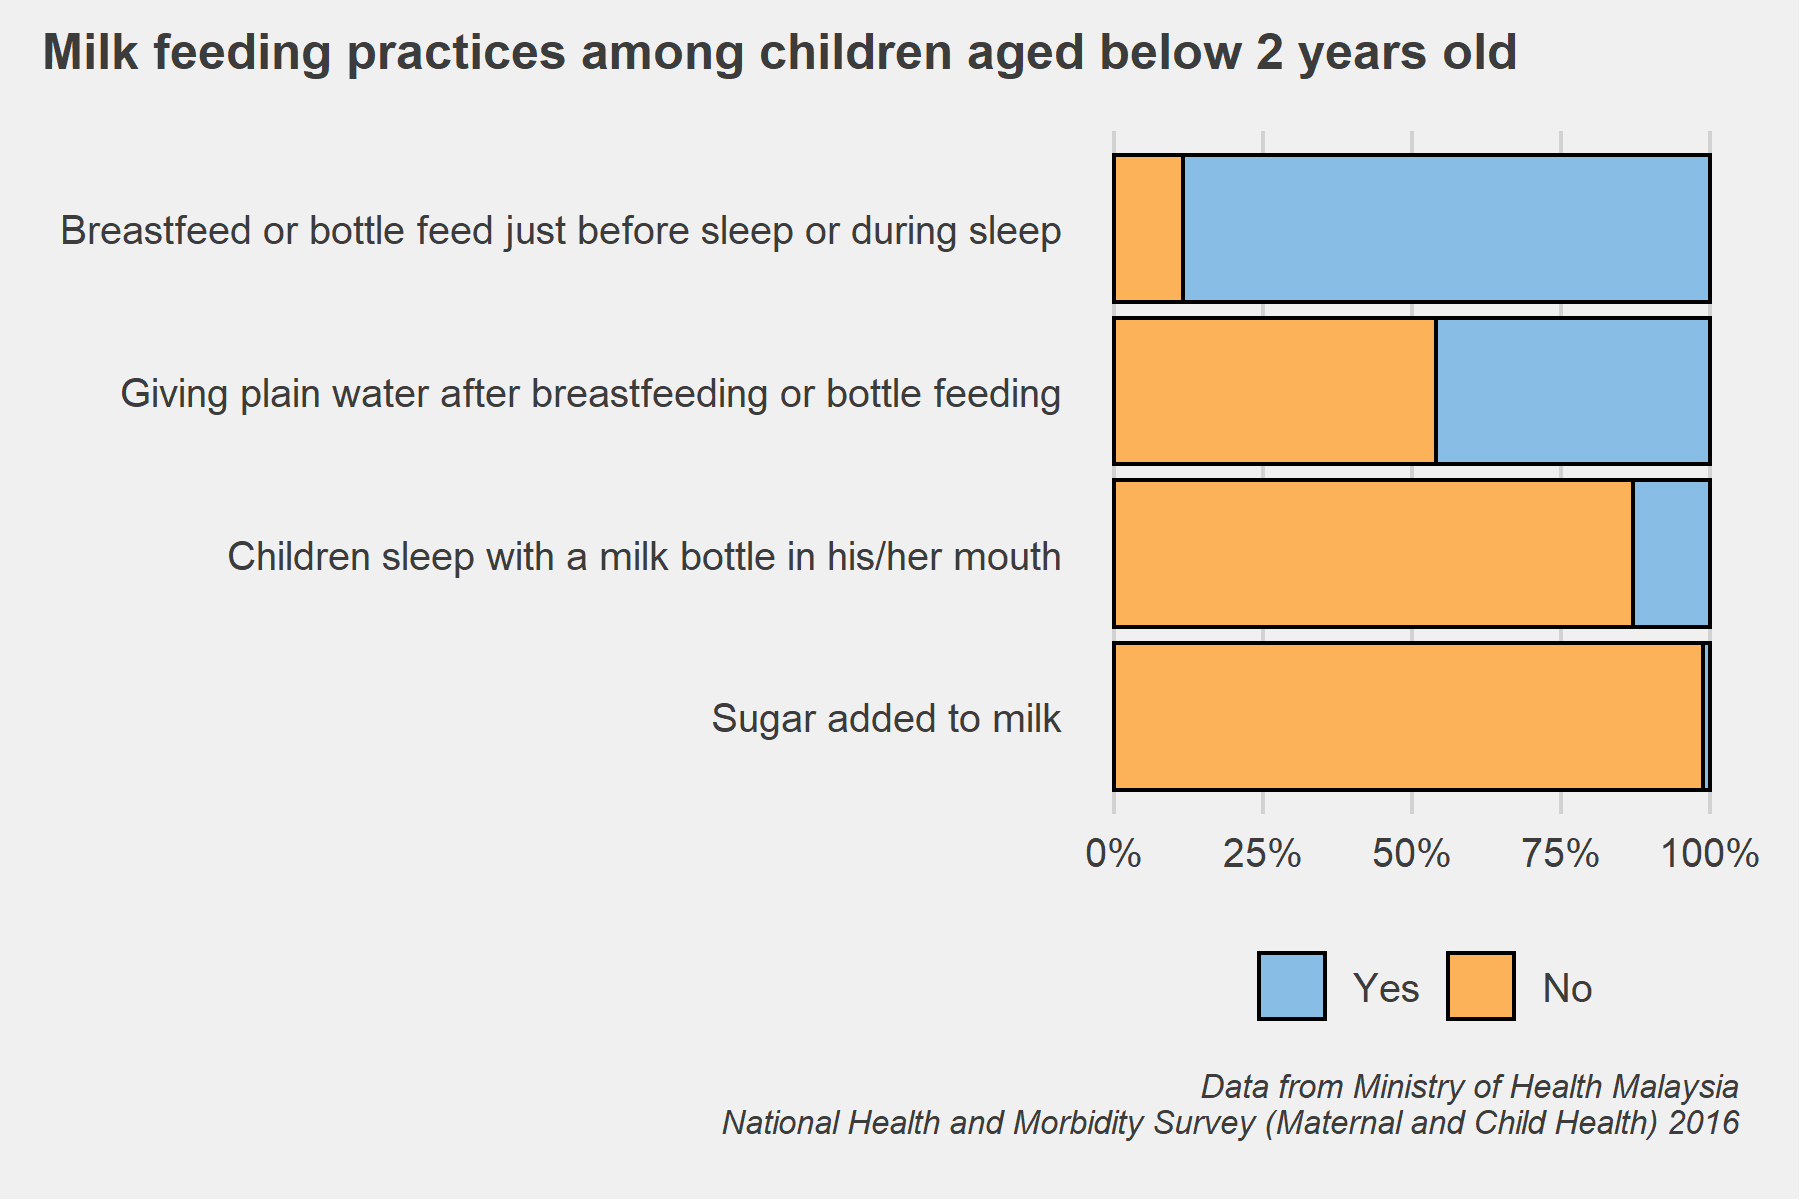
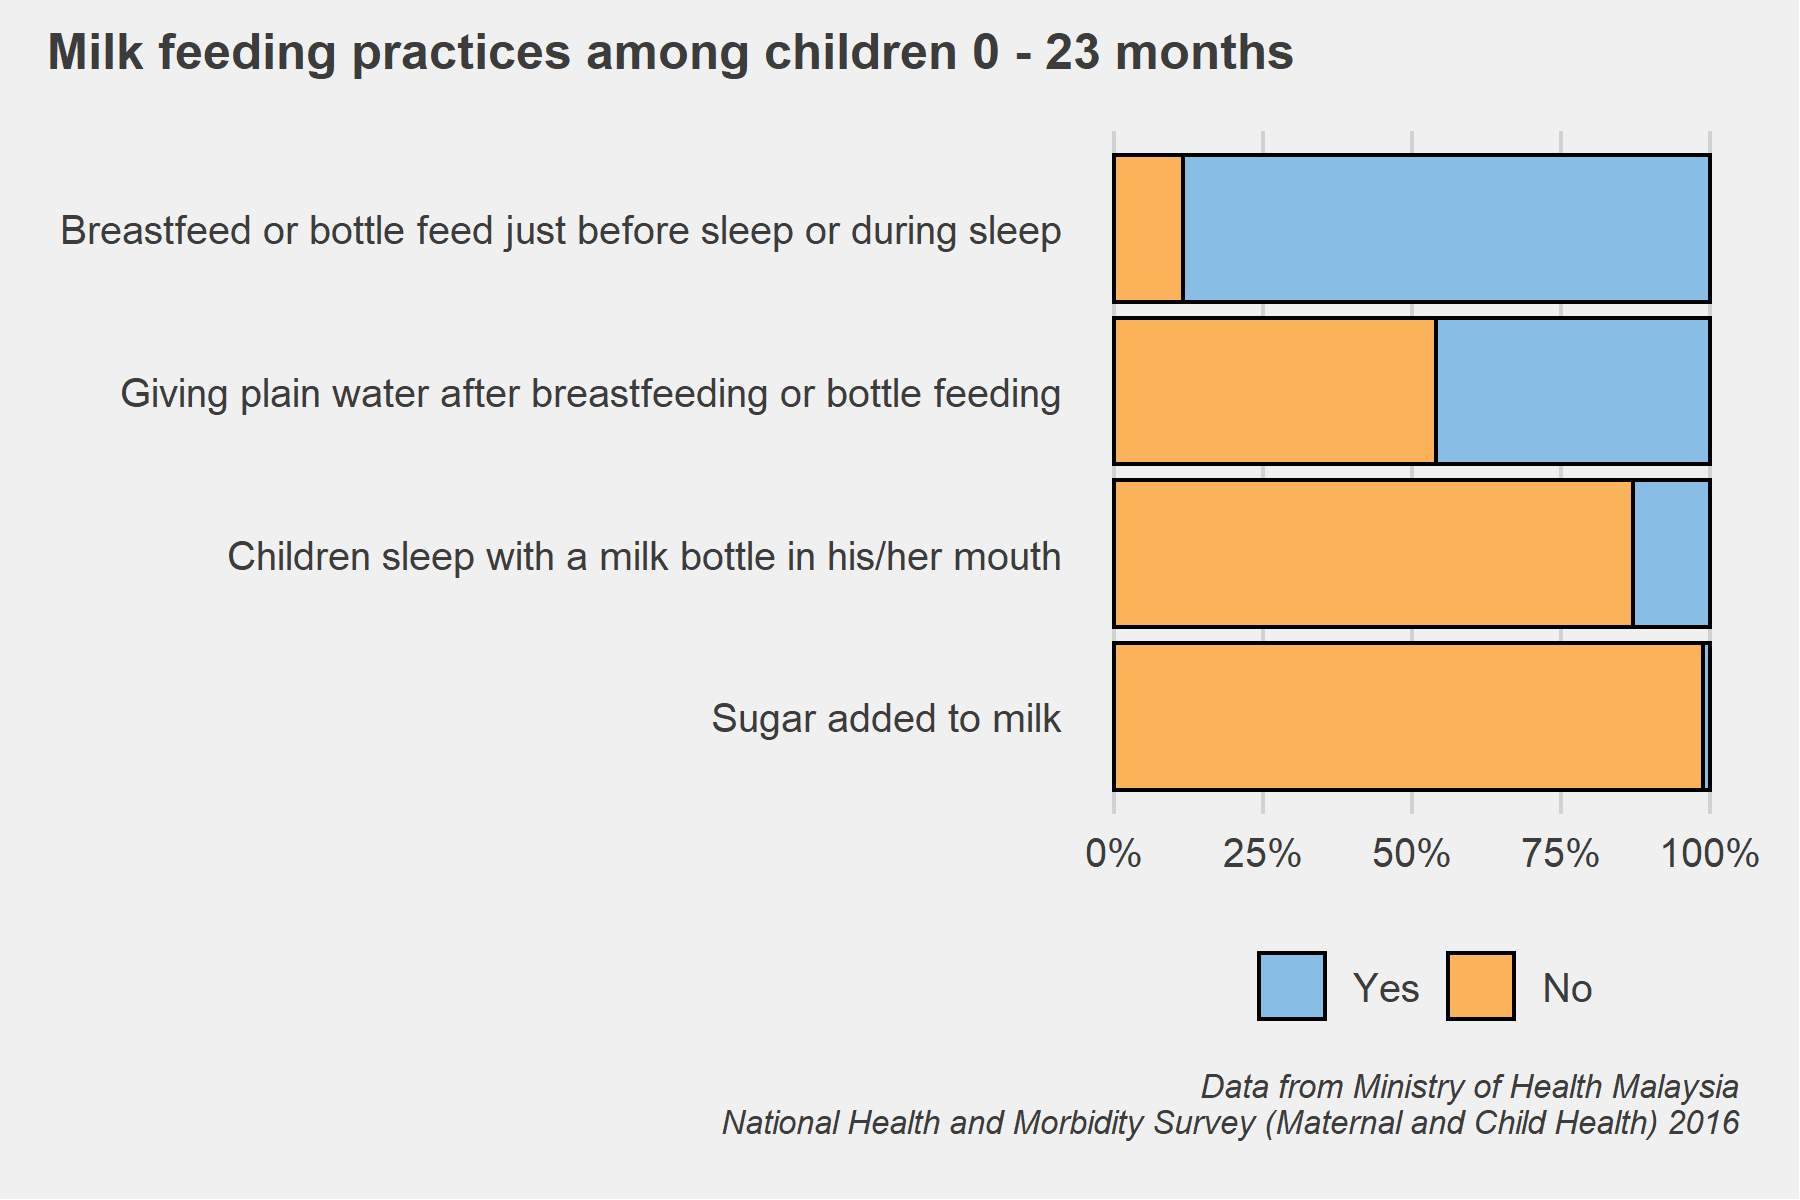
update plot title

Changed region(s): [[0.0, 0.0308, 0.84, 0.0617]]

diff --git a/milk_feeding/README.md b/milk_feeding/README.md
@@ -1,0 +1,9 @@
+Milk feeding practice (2016)
+================
+
+Visualisation exercise using the dataset ![Milk feeding practices among
+children aged below 2 years
+old](http://www.data.gov.my/data/ms_MY/dataset/milk-feeding-practices-among-children-aged-below-2-years-old-nhms-2016)
+published by the Ministry of Health Malaysia.
+
+![](README_files/figure-gfm/unnamed-chunk-1-1.png)<!-- -->
